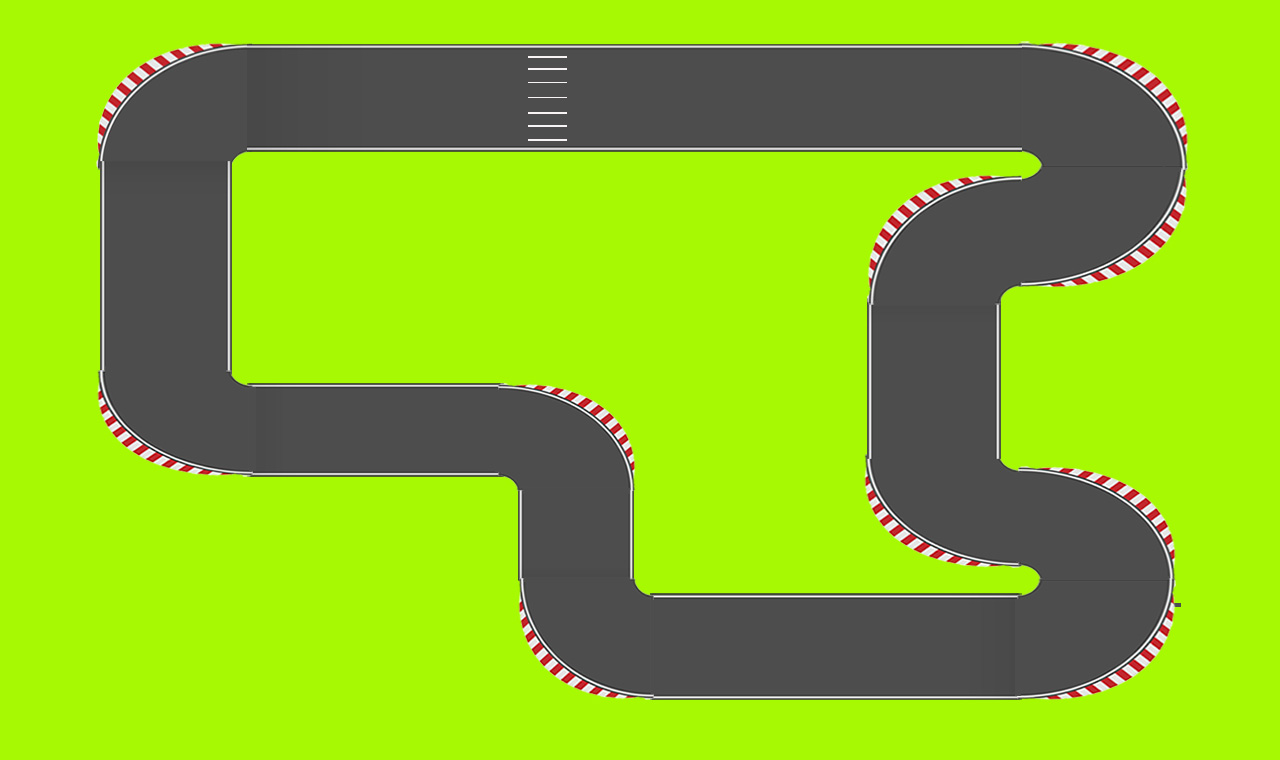
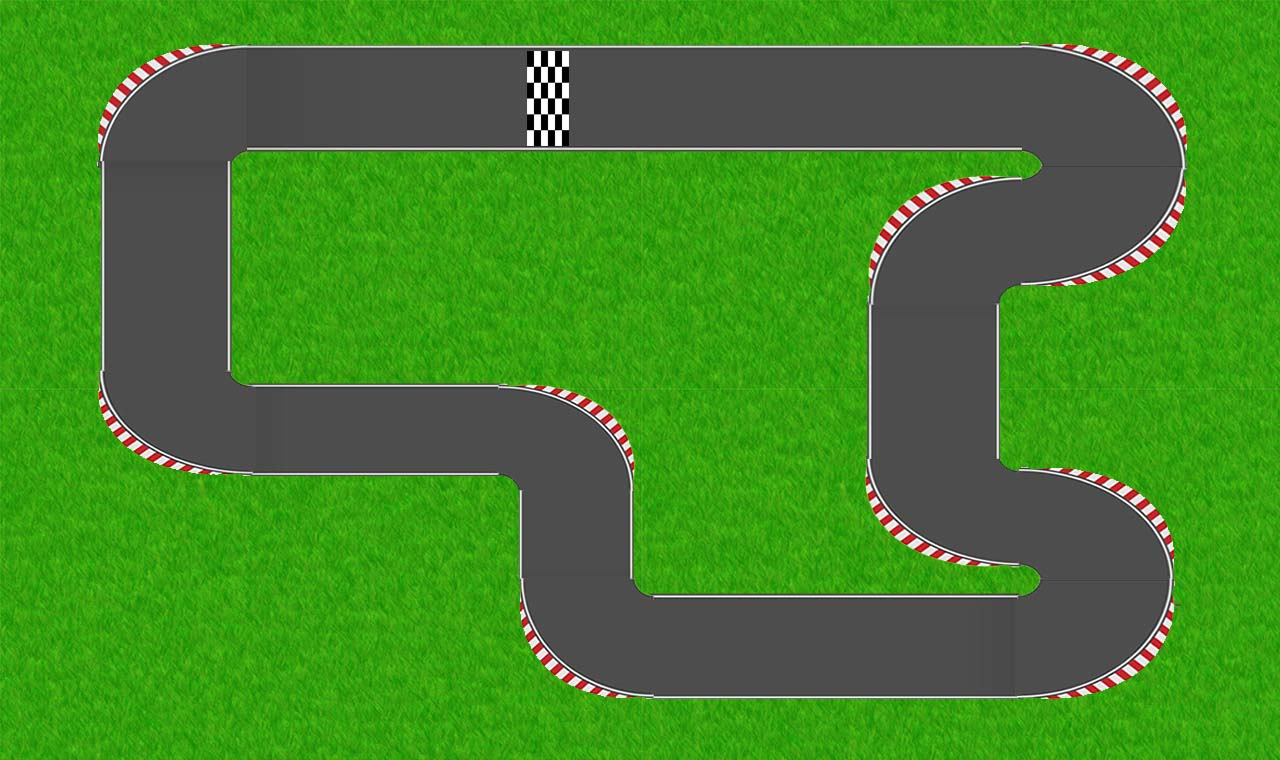
Backgrounds

diff --git a/core/src/com/mygdx/game/MyGdxGame.java b/core/src/com/mygdx/game/MyGdxGame.java
@@ -311,10 +311,6 @@ public class MyGdxGame extends ApplicationAdapter {
         createFinishLine2();
         checkInput();
         batch.begin();
-        batch.draw(backGround2, 0, 0);
-        batch.draw(board, 50, 20, 400, 200);
-        font.draw(batch, driver, 70, 200);
-        redFont.draw(batch, powerUpFont, 200, 130);
         for (Obstacle checkpoint : checkpoints2) {
             checkpoint.draw(batch);
         }
@@ -322,6 +318,14 @@ public class MyGdxGame extends ApplicationAdapter {
         for (Obstacle finishLinePoint : finishLineLevel2) {
             finishLinePoint.draw(batch);
         }
+
+        batch.draw(backGround2, 0, 0);
+        batch.draw(board, 50, 20, 400, 200);
+        font.draw(batch, driver, 70, 200);
+        redFont.draw(batch, powerUpFont, 200, 130);
+
+
+
         timer2.drawTime(batch);
         if (numberOfLaps2 == 5) {                         /////////////////////////
             // game state is level complete
@@ -425,15 +429,22 @@ public class MyGdxGame extends ApplicationAdapter {
         createFinishLineLevel3();
         batch.begin();
 
+        for (Obstacle grass:slowOnGrassLevel3) {
+            grass.draw(batch);
+        }
+        for (Obstacle checkpoint : checkpoints3) {
+            checkpoint.draw(batch);
+        }
+        for (Obstacle finishLinePoint : finishLineLevel3) {
+            finishLinePoint.draw(batch);
+        }
 
         batch.draw(backGroundLevel3, 0, 0);
 
         for (Obstacle outSideItemLevel3 : outSideItemsLevel3 ) {
             outSideItemLevel3.draw(batch);
         }
-        for (Obstacle grass:slowOnGrassLevel3) {
-            grass.draw(batch);
-        }
+
         for (Obstacle checkpoint : checkpoints3) {
             checkpoint.draw(batch);
         }
